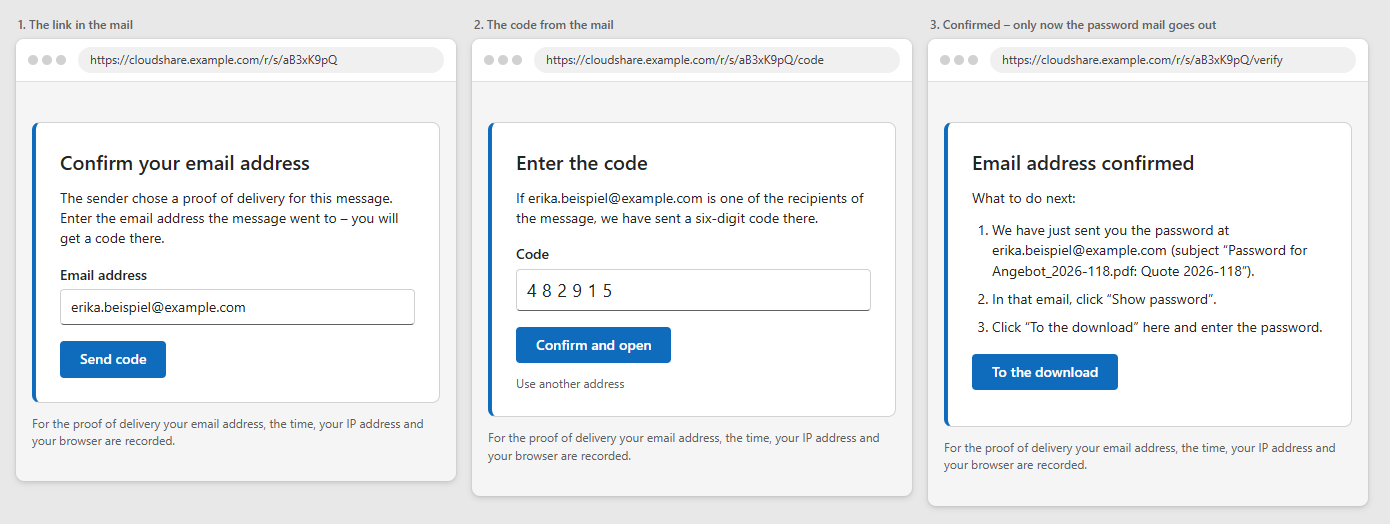
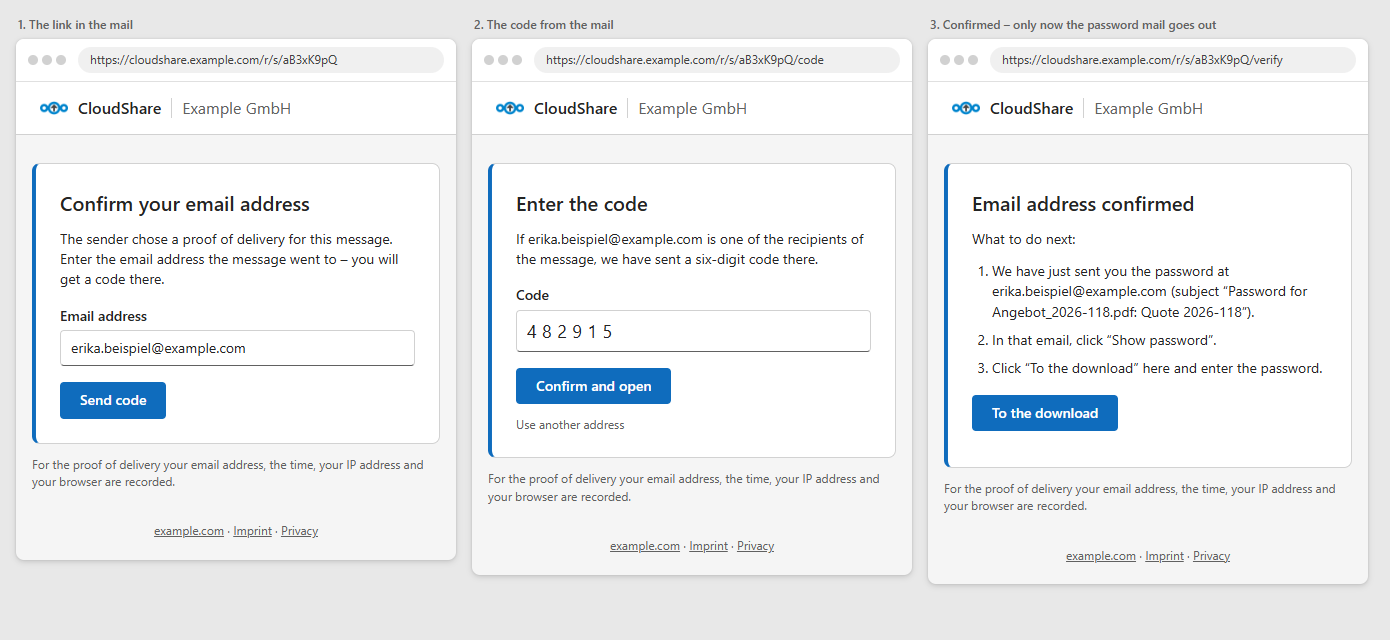
Recipient pages with header and footer; clearer mail after the confirmation (#101)
- Delivery proof pages: header with the CloudShare logo, "CloudShare" and the
  organisation (COMPANY_NAME), footer with website, imprint and privacy notice
  (COMPANY_WEBSITE_URL, IMPRINT_URL, PRIVACY_URL; http(s) only).
- Password mail after the confirmation: two numbered steps in the card
  (show password, then download), each button with its address as plain text.
- English texts in cloudshare.env.example and setup.sh; default certificate
  name "CloudShare Proof of Delivery".

diff --git a/docs/mockups/proof-gateway.html b/docs/mockups/proof-gateway.html
@@ -16,7 +16,9 @@ body { background: #e8e8e8; padding: 16px; font: 14px/1.45 "Segoe UI", -apple-sy
 .url { flex: 1; background: #f0f0f0; border-radius: 14px; padding: 4px 12px; font-size: 12px; color: #424242; }
 .step { font-size: 12px; font-weight: 600; color: #616161; padding: 0 0 6px 2px; }
 /* From proofGateway.ts */
-main{max-width:440px;margin:40px auto 32px;padding:0 16px}.card{background:#fff;border:1px solid #d1d1d1;border-left:4px solid #0f6cbd;border-radius:8px;padding:24px}
+.brand{display:flex;align-items:center;gap:10px;padding:12px 24px;background:#fff;border-bottom:1px solid #d1d1d1}.brand img{width:28px;height:28px}.brand-name{font-size:16px;font-weight:600}.brand-sep{width:1px;height:20px;background:#d1d1d1}.brand-company{font-size:16px;color:#616161}
+.links{text-align:center;font-size:12px;color:#616161;margin:0 16px 20px}.links a{color:inherit}
+main{max-width:440px;margin:28px auto 32px;padding:0 16px}.card{background:#fff;border:1px solid #d1d1d1;border-left:4px solid #0f6cbd;border-radius:8px;padding:24px}
 h1{font-size:20px;font-weight:600;margin:0 0 12px}p{margin:0 0 12px}.small{font-size:12px;color:#616161}
 label{display:block;font-weight:600;margin:16px 0 4px}input{width:100%;font:inherit;padding:7px 10px;border:1px solid #d1d1d1;border-bottom-color:#616161;border-radius:4px;background:#fff;color:#242424}
 button{margin-top:16px;font:inherit;font-weight:600;color:#fff;background:#0f6cbd;border:0;border-radius:4px;padding:8px 20px}.code{letter-spacing:.3em;font-size:18px}
@@ -29,29 +31,34 @@ a.button{display:inline-block;margin-top:4px;font-weight:600;color:#fff;backgrou
     <div class="step">1. The link in the mail</div>
     <div class="window">
       <div class="bar"><span class="dots"><span></span><span></span><span></span></span><span class="url">https://cloudshare.example.com/r/s/aB3xK9pQ</span></div>
+      <header class="brand"><img src="../../addin/assets/icon-64.png" alt="" width="28" height="28"><span class="brand-name">CloudShare</span><span class="brand-sep"></span><span class="brand-company">Example GmbH</span></header>
       <main><div class="card"><h1>Confirm your email address</h1>
         <p>The sender chose a proof of delivery for this message. Enter the email address the message went to – you will get a code there.</p>
         <label for="a">Email address</label><input id="a" value="erika.beispiel@example.com">
         <button>Send code</button></div>
         <p class="small" style="margin-top:12px">For the proof of delivery your email address, the time, your IP address and your browser are recorded.</p></main>
+      <footer class="links"><a href="#">example.com</a> · <a href="#">Imprint</a> · <a href="#">Privacy</a></footer>
     </div>
   </div>
   <div>
     <div class="step">2. The code from the mail</div>
     <div class="window">
       <div class="bar"><span class="dots"><span></span><span></span><span></span></span><span class="url">https://cloudshare.example.com/r/s/aB3xK9pQ/code</span></div>
+      <header class="brand"><img src="../../addin/assets/icon-64.png" alt="" width="28" height="28"><span class="brand-name">CloudShare</span><span class="brand-sep"></span><span class="brand-company">Example GmbH</span></header>
       <main><div class="card"><h1>Enter the code</h1>
         <p>If erika.beispiel@example.com is one of the recipients of the message, we have sent a six-digit code there.</p>
         <label for="c">Code</label><input id="c" class="code" value="482915">
         <button>Confirm and open</button>
         <p class="small" style="margin-top:12px;margin-bottom:0">Use another address</p></div>
         <p class="small" style="margin-top:12px">For the proof of delivery your email address, the time, your IP address and your browser are recorded.</p></main>
+      <footer class="links"><a href="#">example.com</a> · <a href="#">Imprint</a> · <a href="#">Privacy</a></footer>
     </div>
   </div>
   <div>
     <div class="step">3. Confirmed – only now the password mail goes out</div>
     <div class="window">
       <div class="bar"><span class="dots"><span></span><span></span><span></span></span><span class="url">https://cloudshare.example.com/r/s/aB3xK9pQ/verify</span></div>
+      <header class="brand"><img src="../../addin/assets/icon-64.png" alt="" width="28" height="28"><span class="brand-name">CloudShare</span><span class="brand-sep"></span><span class="brand-company">Example GmbH</span></header>
       <main><div class="card"><h1>Email address confirmed</h1>
         <p>What to do next:</p>
         <ol><li>We have just sent you the password at erika.beispiel@example.com (subject “Password for Angebot_2026-118.pdf: Quote 2026-118”).</li>
@@ -59,6 +66,7 @@ a.button{display:inline-block;margin-top:4px;font-weight:600;color:#fff;backgrou
         <li>Click “To the download” here and enter the password.</li></ol>
         <p><a class="button" href="#">To the download</a></p></div>
         <p class="small" style="margin-top:12px">For the proof of delivery your email address, the time, your IP address and your browser are recorded.</p></main>
+      <footer class="links"><a href="#">example.com</a> · <a href="#">Imprint</a> · <a href="#">Privacy</a></footer>
     </div>
   </div>
 </div>

diff --git a/server/src/proofGateway.ts b/server/src/proofGateway.ts
@@ -74,7 +74,7 @@ export interface GatewayResult {
 
 /** Content-Security-Policy of the pages: nothing but their own styles; the form may lead on to Nextcloud. */
 export const gatewayCsp = () =>
-  `default-src 'none'; style-src 'unsafe-inline'; img-src data:; form-action 'self' ${new URL(config.nextcloudUrl).origin}; ` +
+  `default-src 'none'; style-src 'unsafe-inline'; img-src 'self' data:; form-action 'self' ${new URL(config.nextcloudUrl).origin}; ` +
   "frame-ancestors 'none'; base-uri 'none'";
 
 const COOKIE = "cloudshare_proof";
@@ -113,13 +113,34 @@ const page = (title: string, body: string) => `<!doctype html>
 :root{color-scheme:light dark;--bg:#f5f5f5;--card:#fff;--fg:#242424;--fg2:#616161;--stroke:#d1d1d1;--brand:#0f6cbd;--brand-hover:#115ea3;--danger:#c50f1f}
 @media (prefers-color-scheme:dark){:root{--bg:#1f1f1f;--card:#292929;--fg:#fff;--fg2:#adadad;--stroke:#666;--brand:#479ef5;--brand-hover:#62abf5;--danger:#dc626d}}
 *{box-sizing:border-box}body{margin:0;background:var(--bg);color:var(--fg);font:14px/1.45 "Segoe UI",-apple-system,Helvetica,Arial,sans-serif}
-main{max-width:440px;margin:48px auto;padding:0 16px}.card{background:var(--card);border:1px solid var(--stroke);border-left:4px solid var(--brand);border-radius:8px;padding:24px}
+.brand{display:flex;align-items:center;gap:10px;padding:12px 24px;background:var(--card);border-bottom:1px solid var(--stroke)}.brand img{width:28px;height:28px}.brand-name{font-size:16px;font-weight:600}.brand-sep{width:1px;height:20px;background:var(--stroke)}.brand-company{font-size:16px;color:var(--fg2)}
+.links{text-align:center;font-size:12px;color:var(--fg2);margin:32px 16px 24px}.links a{color:inherit}
+main{max-width:440px;margin:40px auto;padding:0 16px}.card{background:var(--card);border:1px solid var(--stroke);border-left:4px solid var(--brand);border-radius:8px;padding:24px}
 h1{font-size:20px;font-weight:600;margin:0 0 12px}p{margin:0 0 12px}.small{font-size:12px;color:var(--fg2)}.error{color:var(--danger);font-weight:600}
 label{display:block;font-weight:600;margin:16px 0 4px}input{width:100%;font:inherit;padding:7px 10px;border:1px solid var(--stroke);border-bottom-color:var(--fg2);border-radius:4px;background:var(--card);color:var(--fg)}
 input:focus{outline:2px solid var(--brand);outline-offset:-1px}button{margin-top:16px;font:inherit;font-weight:600;color:#fff;background:var(--brand);border:0;border-radius:4px;padding:8px 20px;cursor:pointer}
 button:hover{background:var(--brand-hover)}a.button{display:inline-block;margin-top:4px;font-weight:600;color:#fff;background:var(--brand);border-radius:4px;padding:8px 20px;text-decoration:none}a.button:hover{background:var(--brand-hover)}ol{margin:0 0 12px;padding-left:20px}li{margin:0 0 8px}.code{letter-spacing:.3em;font-size:18px}
-</style></head><body><main><div class="card"><h1>${escapeHtml(title)}</h1>${body}</div>
-<p class="small" style="margin-top:12px">${escapeHtml(t("mail.proof.gateway.privacy"))}</p></main></body></html>`;
+</style></head><body>${brandHeader()}<main><div class="card"><h1>${escapeHtml(title)}</h1>${body}</div>
+<p class="small" style="margin-top:12px">${escapeHtml(t("mail.proof.gateway.privacy"))}</p></main>${linksFooter()}</body></html>`;
+
+/** Header of the pages: the CloudShare logo and name, after a thin line the organisation (COMPANY_NAME). */
+function brandHeader(): string {
+  const company = config.companyName
+    ? `<span class="brand-sep" aria-hidden="true"></span><span class="brand-company">${escapeHtml(config.companyName)}</span>`
+    : "";
+  return `<header class="brand"><img src="/assets/icon-64.png" alt="" width="28" height="28"><span class="brand-name">CloudShare</span>${company}</header>`;
+}
+
+/** Footer: the organisation's website, imprint and privacy notice (COMPANY_WEBSITE_URL, IMPRINT_URL, PRIVACY_URL; each optional). */
+function linksFooter(): string {
+  const link = (url: string, text: string) => `<a href="${escapeHtml(url)}" rel="noopener">${escapeHtml(text)}</a>`;
+  const links = [
+    config.companyWebsiteUrl ? link(config.companyWebsiteUrl, new URL(config.companyWebsiteUrl).host.replace(/^www\./, "")) : "",
+    config.imprintUrl ? link(config.imprintUrl, t("mail.proof.gateway.imprint")) : "",
+    config.privacyUrl ? link(config.privacyUrl, t("mail.proof.gateway.privacyLink")) : "",
+  ].filter(Boolean);
+  return links.length ? `<footer class="links">${links.join(" · ")}</footer>` : "";
+}
 
 const addressForm = (token: string, error = "") =>
   page(

diff --git a/server/src/mailLayout.ts b/server/src/mailLayout.ts
@@ -3,8 +3,8 @@
  * and the notes about a password SMS to the sender. Same look as the link card the taskpane inserts
  * (addin/src/taskpane/mailCard.ts – keep colours and spacing in sync):
  *
- *   text paragraphs · one white card (accent on the left, title, file rows with type badges, at most one button,
- *   a small detail line) · optional text below · grey line "sent automatically by CloudShare"
+ *   text paragraphs · one white card (accent on the left, title, file rows with type badges, at most one button or
+ *   numbered steps each with its button and plain link, a small detail line) · optional text below · grey line "sent automatically by CloudShare"
  *
  * The colour of the accent tells the kind: brand blue (password), green (downloaded), red (problem). Tables and inline
  * styles only, so it renders in classic Outlook, Outlook on the web, Gmail and on phones.
@@ -57,6 +57,11 @@ export interface MailCard {
   /** A short value shown large under the title (the six-digit code of the delivery proof). */
   highlight?: string;
   button?: { label: string; url: string };
+  /**
+   * Numbered steps instead of the one button (the password mail after the delivery proof's confirmation): each with
+   * its text, its button and, right below, the same address as plain text for clients that hide buttons.
+   */
+  steps?: { text: string; button: { label: string; url: string } }[];
   /** Small grey line at the bottom of the card (validity, accesses, number …). */
   details?: string;
 }
@@ -70,12 +75,22 @@ export function mailCard(card: MailCard): string {
         `line-height:20px;font-weight:600;color:#242424;word-break:break-all;">${escapeHtml(name)}</td></tr>`,
     )
     .join("");
-  const button = card.button
-    ? `<div style="margin:14px 0 0;">` +
-      `<a href="${escapeHtml(card.button.url)}" style="display:inline-block;background:${BRAND};border:1px solid ${BRAND};` +
-      `border-radius:4px;color:#ffffff;font-family:${FONT};font-size:13px;font-weight:600;line-height:18px;` +
-      `padding:6px 14px;text-decoration:none;white-space:nowrap;">${escapeHtml(card.button.label)}</a></div>`
-    : "";
+  const button = card.button ? `<div style="margin:14px 0 0;">${buttonLink(card.button)}</div>` : "";
+  const steps = (card.steps ?? [])
+    .map(
+      (step, i) =>
+        `<table role="presentation" cellpadding="0" cellspacing="0" border="0" style="border-collapse:collapse;margin:14px 0 0;width:100%;"><tr>` +
+        `<td width="24" valign="top" style="width:24px;padding:0 10px 0 0;">` +
+        `<div style="width:24px;height:24px;line-height:24px;border-radius:12px;background:${BRAND};color:#ffffff;` +
+        `font-family:${FONT};font-size:12px;font-weight:700;text-align:center;">${i + 1}</div></td>` +
+        `<td valign="top" style="font-family:${FONT};">` +
+        `<div style="font-size:14px;line-height:24px;font-weight:600;color:#242424;margin:0 0 6px;">${escapeHtml(step.text)}</div>` +
+        buttonLink(step.button) +
+        `<div style="font-size:12px;line-height:16px;margin:6px 0 0;word-break:break-all;">` +
+        `<a href="${escapeHtml(step.button.url)}" style="color:${BRAND};">${escapeHtml(step.button.url)}</a></div>` +
+        `</td></tr></table>`,
+    )
+    .join("");
   const details = card.details
     ? `<div style="font-size:12px;line-height:16px;color:#616161;margin:10px 0 0;">${escapeHtml(card.details)}</div>`
     : "";
@@ -92,8 +107,18 @@ export function mailCard(card: MailCard): string {
       : "") +
     (rows ? `<table role="presentation" cellpadding="0" cellspacing="0" border="0" style="border-collapse:collapse;">${rows}</table>` : "") +
     button +
+    steps +
     details +
     `</td></tr></table>`
+  );
+}
+
+/** A button as a link (the card's button and the buttons of its steps). */
+function buttonLink(button: { label: string; url: string }): string {
+  return (
+    `<a href="${escapeHtml(button.url)}" style="display:inline-block;background:${BRAND};border:1px solid ${BRAND};` +
+    `border-radius:4px;color:#ffffff;font-family:${FONT};font-size:13px;font-weight:600;line-height:18px;` +
+    `padding:6px 14px;text-decoration:none;white-space:nowrap;">${escapeHtml(button.label)}</a>`
   );
 }
 

diff --git a/server/src/passwordMail.ts b/server/src/passwordMail.ts
@@ -54,19 +54,34 @@ export function passwordMailHtml(mail: PasswordMailContent): string {
   const limits = mail.expiresOn && mail.maxAccessCount
     ? t("mail.limitNote", { count: mail.maxAccessCount, date: mail.expiresOn })
     : [accessText(mail.maxAccessCount), expiry].filter(Boolean).join(" · ");
-  const steps = mail.afterConfirmation
-    ? paragraph(t("mail.confirmedNext")) +
-      `<ol style="${TEXT_STYLE}padding-left:20px;">` +
-      [t("mail.confirmedStep1"), t(mail.afterConfirmation.kind === "request" ? "mail.confirmedStep2Upload" : "mail.confirmedStep2Download"), t("mail.confirmedStep3")]
-        .map((s) => `<li style="margin:0 0 4px;">${escapeHtml(s)}</li>`).join("") +
-      `</ol>` +
-      // To the gateway, not to Nextcloud: the same browser goes straight on (it is confirmed), another one or a forwarded
-      // mail is asked for the code again – link and password never travel together, every opening stays recorded.
-      `<p style="${TEXT_STYLE}"><a href="${escapeHtml(mail.afterConfirmation.url)}" style="display:inline-block;background:#0f6cbd;` +
-      `border:1px solid #0f6cbd;border-radius:4px;color:#ffffff;font-family:'Segoe UI',-apple-system,Helvetica,Arial,sans-serif;` +
-      `font-size:13px;font-weight:600;line-height:18px;padding:6px 14px;text-decoration:none;">` +
-      `${escapeHtml(t(mail.afterConfirmation.kind === "request" ? "mail.proof.gateway.upload" : "mail.proof.gateway.download"))}</a></p>`
-    : "";
+  const signature = mail.signature ? `<div style="margin:20px 0 0;">${mail.signature}</div>` : "";
+  const tracking = mail.trackingId ? t("mail.trackingId", { id: mail.trackingId }) : "";
+  if (mail.afterConfirmation) {
+    // Right after the confirmation: two numbered steps in the card – first the password, then the download. Each has
+    // its button and its address as plain text. The download goes to the gateway, not to Nextcloud: the confirmed
+    // browser goes straight on, another one or a forwarded mail is asked for the code again – every opening is recorded.
+    const upload = mail.afterConfirmation.kind === "request";
+    const passwordLimits = mail.expiresOn && mail.maxAccessCount
+      ? t("mail.confirmedLimit", { count: mail.maxAccessCount, date: mail.expiresOn })
+      : [accessText(mail.maxAccessCount), expiry].filter(Boolean).join(" · ");
+    return mailDocument({
+      opening,
+      card: {
+        accent: "brand",
+        title: t(upload ? "mail.confirmedTitleUpload" : "mail.confirmedTitleDownload"),
+        files: mail.fileNames,
+        steps: [
+          { text: t("mail.confirmedStepPassword"), button: { label: t("mail.showPassword"), url: mail.sendUrl } },
+          {
+            text: t(upload ? "mail.confirmedStepUpload" : "mail.confirmedStepDownload", { count }),
+            button: { label: t(upload ? "mail.proof.gateway.upload" : "mail.proof.gateway.download"), url: mail.afterConfirmation.url },
+          },
+        ],
+        details: [passwordLimits, tracking].filter(Boolean).join(" · "),
+      },
+      after: signature,
+    });
+  }
   return mailDocument({
     opening,
     card: {
@@ -74,16 +89,14 @@ export function passwordMailHtml(mail: PasswordMailContent): string {
       title: t("mail.cardTitle", { count }),
       files: mail.fileNames,
       button: { label: t("mail.showPassword"), url: mail.sendUrl },
-      details: [limits, mail.afterConfirmation ? "" : t("mail.enterPassword", { count }),
-        mail.trackingId ? t("mail.trackingId", { id: mail.trackingId }) : ""].filter(Boolean).join(" · "),
+      details: [limits, t("mail.enterPassword", { count }), tracking].filter(Boolean).join(" · "),
     },
     // The plain link as well – some mail clients block buttons or show them without colours.
     after:
-      steps +
       smallPrint(
         `${escapeHtml(t("mail.buttonFallback"))} <a href="${escapeHtml(mail.sendUrl)}" style="color:#0f6cbd;">` +
           `${escapeHtml(mail.sendUrl)}</a>`,
-      ) + (mail.signature ? `<div style="margin:20px 0 0;">${mail.signature}</div>` : ""),
+      ) + signature,
   });
 }
 

diff --git a/server/test/passwordMail.test.ts b/server/test/passwordMail.test.ts
@@ -105,17 +105,27 @@ describe("password mail – limits and the mail after the confirmation", () => {
       .toContain("Der Knopf funktioniert nur einmal und bis 25.11.2026");
   });
 
-  it("right after the confirmation: says so and lists the steps back on the page", () => {
+  it("right after the confirmation: two numbered steps in the card, each with its button and plain link", () => {
     const html = passwordMailHtml({
       ...base, fileNames: ["Angebot.zip"], subject: "Unterlagen", senderName: "Anna Muster", maxAccessCount: 3,
-      expiresOn: "25.11.2026", afterConfirmation: { kind: "file", url: "https://cloudshare.example.test/r/s/tok" },
+      expiresOn: "25.11.2026", trackingId: "20261118-1932-DHLB", sendUrl: "https://vault.example.test/#/send/abc/key",
+      afterConfirmation: { kind: "file", url: "https://cloudshare.example.test/r/s/tok" },
     });
     expect(html).toContain("Sie haben eben Ihre E-Mail-Adresse bestätigt. Hier ist das Kennwort für „Angebot.zip“ aus der Nachricht „Unterlagen“ von Anna Muster.");
-    expect(html).toContain("<ol");
-    expect(html).toContain("Klicken Sie auf „Zum Download“ – hier unten oder auf der geöffneten Seite.");
-    // The button leads to the gateway (confirmed browser: straight on; anyone else: the code again), never to Nextcloud.
-    expect(html).toContain('<a href="https://cloudshare.example.test/r/s/tok"');
+    expect(html).toContain("Kennwort und Download");
+    // Step 1 first, then step 2 – the password link never stands below the download.
+    const password = html.indexOf("Kennwort anzeigen und notieren");
+    const download = html.indexOf("Datei herunterladen – dort das Kennwort eingeben");
+    expect(password).toBeGreaterThan(0);
+    expect(download).toBeGreaterThan(password);
+    // Each step: its button and its address as plain text (the download to the gateway, never to Nextcloud).
+    expect(html.match(/https:\/\/vault\.example\.test\/#\/send\/abc\/key/g)).toHaveLength(3); // href of button, href and text of the link
+    expect(html.match(/https:\/\/cloudshare\.example\.test\/r\/s\/tok/g)).toHaveLength(3);
+    expect(html.indexOf("https://cloudshare.example.test/r/s/tok")).toBeGreaterThan(download);
     expect(html).toContain(">Zum Download</a>");
-    expect(html).not.toContain("wenn Sie den Link öffnen"); // the page says where to enter it
+    expect(html).toContain("Kennwort-Link: 3-mal, bis 25.11.2026 · Vorgang 20261118-1932-DHLB");
+    expect(html).not.toContain("Falls der Button nicht funktioniert");
+    expect(html).not.toContain("<ol");
   });
+
 });

diff --git a/server/src/config.ts b/server/src/config.ts
@@ -43,6 +43,14 @@ function cleanupDays(): number | null {
   return value;
 }
 
+/** An http(s) address from the environment (empty if unset); anything else stops the start, so a typo shows. */
+function webUrl(name: string): string {
+  const value = (process.env[name] ?? "").trim();
+  if (!value) return "";
+  if (!/^https?:\/\/[^\s]+$/i.test(value)) throw new Error(`Environment variable ${name} must be an http(s) address`);
+  return value;
+}
+
 /** A switch from the environment ("true" = on); unset, it takes the value of `fallbackName` (an older switch). */
 export function envFlag(name: string, fallbackName?: string, env: NodeJS.ProcessEnv = process.env): boolean {
   return (env[name] ?? (fallbackName ? env[fallbackName] : undefined)) === "true";
@@ -209,9 +217,17 @@ export const config = {
    * without them CloudShare makes a certificate itself (CN PROOF_SIGN_NAME, O PROOF_SIGN_ORGANIZATION). PROOF_TSA_URL:
    * RFC 3161 time stamp authority for the signature ("off" = none) – only a hash leaves the server.
    */
+  /**
+   * The recipients' pages of the delivery proof (proofGateway.ts): the organisation's name after the CloudShare logo,
+   * and its website, imprint and privacy notice in the footer – each optional, only http(s) addresses.
+   */
+  companyName: process.env.COMPANY_NAME?.trim() ?? "",
+  companyWebsiteUrl: webUrl("COMPANY_WEBSITE_URL"),
+  imprintUrl: webUrl("IMPRINT_URL"),
+  privacyUrl: webUrl("PRIVACY_URL"),
   proofSignCertFile: process.env.PROOF_SIGN_CERT_FILE ?? "",
   proofSignKeyFile: process.env.PROOF_SIGN_KEY_FILE ?? "",
-  proofSignName: process.env.PROOF_SIGN_NAME?.trim() || "CloudShare Zustellnachweis",
+  proofSignName: process.env.PROOF_SIGN_NAME?.trim() || "CloudShare Proof of Delivery",
   proofSignOrganization: process.env.PROOF_SIGN_ORGANIZATION?.trim() ?? "",
   proofTsaUrl: (() => {
     const url = (process.env.PROOF_TSA_URL ?? "http://timestamp.digicert.com").trim();

diff --git a/server/test/api.test.ts b/server/test/api.test.ts
@@ -1363,3 +1363,21 @@ describe("delivery proof – the list for the search (GET /api/proofs)", () => {
       .some((p: { id: string }) => p.id === proofId)).toBe(false);
   });
 });
+
+describe("delivery proof – the pages carry the organisation", () => {
+  it("shows the CloudShare logo with the organisation, and website, imprint and privacy links", async () => {
+    const { config } = await import("../src/config.js");
+    Object.assign(config, { companyName: "Example GmbH", companyWebsiteUrl: "https://www.example.com", imprintUrl: "https://www.example.com/imprint", privacyUrl: "" });
+    try {
+      const page = await app.inject({ method: "GET", url: "/r/s/unknown-token" });
+      expect(page.body).toContain('<img src="/assets/icon-64.png"');
+      expect(page.body).toContain('<span class="brand-company">Example GmbH</span>');
+      expect(page.body).toContain('<a href="https://www.example.com" rel="noopener">example.com</a>');
+      expect(page.body).toContain(">Impressum</a>");
+      expect(page.body).not.toContain("Datenschutz</a>"); // no PRIVACY_URL: no link
+      expect(page.headers["content-security-policy"]).toContain("img-src 'self' data:");
+    } finally {
+      Object.assign(config, { companyName: "", companyWebsiteUrl: "", imprintUrl: "", privacyUrl: "" });
+    }
+  });
+});

diff --git a/server/test/pdfSign.test.ts b/server/test/pdfSign.test.ts
@@ -33,9 +33,9 @@ function opensslVerify(cms: Buffer, content: Buffer): boolean | null {
 describe("signing the proof PDF", () => {
   it("makes a certificate Node reads and whose signature checks", () => {
     const { privateKey, publicKey } = generateKeyPairSync("rsa", { modulusLength: 2048 });
-    const der = makeCertificate("CloudShare Zustellnachweis", "Example GmbH", privateKey, publicKey.export({ type: "spki", format: "der" }));
+    const der = makeCertificate("CloudShare Proof of Delivery", "Example GmbH", privateKey, publicKey.export({ type: "spki", format: "der" }));
     const cert = new X509Certificate(der);
-    expect(cert.subject).toContain("CN=CloudShare Zustellnachweis");
+    expect(cert.subject).toContain("CN=CloudShare Proof of Delivery");
     expect(cert.subject).toContain("O=Example GmbH");
     expect(cert.verify(publicKey)).toBe(true);
     expect(new Date(cert.validTo).getTime()).toBeGreaterThan(Date.now() + 9 * 365 * 86_400_000);

diff --git a/CLAUDE.md b/CLAUDE.md
@@ -27,7 +27,7 @@ One container serves everything behind Caddy:
 - Personal settings ("Einstellungen" `#settings-open` in the account menu of the bottom bar, `#panel-settings` shown in place of the tab like the help – `showOverlay`): add-in `settings.ts` (form, `loadSettings`, `userSettings`), server `settings.ts` (store `settings`, `retention: false`, only changed fields; `settingsFor` = `config.userDefaults` from `DEFAULT_*` + stored + `availableSettings`), `/api/settings` GET/PUT/DELETE. Covers the offered password ways and the preselected one (`applyChannelChoices`, keeps the way a mail already uses), the notices (checked in `attachNoticeJob`, `runNotices`, `noteUndeliveredSms`; only where the server switch is on), the add-in language (`auto` or a code, also in `roamingSettings` `cloudshare-settings` → `preferredLanguage` in `i18n.ts`; reload once when it differs) and the signature of the password mails (`server/src/signature.ts`, `signatureHtml`: own text or else `MAIL_FOOTER`, plain text only – deliberately no formatted/HTML signature; empty line = paragraph (`signatureParagraphs`), profile placeholders via `fillTemplate`, escaped, each paragraph a `<p>` in `TEXT_STYLE` like "Guten Tag"; fixed in `PasswordJob.signature` when arming, built anew for "send again"). The link card carries no signature. SMS rules and server switches are never user settings. Keep the help section `help.settings.*` in step.
 - Per-draft state lives in `item.sessionData` (`DraftState` in `shared/office.ts`: `jobId`, `password`, `noPassword`, `maxAccess`, `passwordTo` = other password recipient (job field, only that address gets the password mail), `separate` = one password and password mail per "Als Link einfügen" step (`step` ID per click, `PasswordJob.separate`), `lastStep` = ID and password of the last step with a password – after it "Gleiches Kennwort wie zuvor" (`#mode-same`) is preselected and the next click reuses that step (`stepForClick`, joins the part on the server: one password, one password mail/SMS for files, message and upload link), `links` = share tokens of inserted links; if none of them is left in the body, `releaseDraftIfLinksGone` drops job/password/tag – taskpane on focus and every 4 s while locked, send handler before arming; drafts without `links` are never released). All files of one mail share one password, one Vaultwarden Send and one password mail (or, with "Ohne Kennwort" – file links only, `noPassword: true` on `/complete` – no password, no Send; with `DOWNLOAD_NOTICE` a job without password (`PasswordJob.noPassword`, `noticeShares`) only waits for the sent mail to register the download confirmation; `DraftState.noPassword` + `jobId`). With "per SMS" the pane hides "Kennwort abrufbar"/"Kennwort-Link gültig für" and SMS steps get Sends with `SEND_MAX_EXPIRE_DAYS`; the backend appends to an existing job via `jobId` on `/complete` unless it was already dispatched. The password mail is sent only after the mail was really sent: the taskpane tags the draft with the Office.js custom property `cloudshareJob` (MAPI `cecp-<add-in ID>`, `ADDIN_ID` env must match the manifest `<Id>`), the send handler only arms the job (`/api/jobs/:id/arm`, stores a Graph token with Mail.Read(.Shared) + Mail.Send(.Shared); the handler passes a "From" that differs from the user so shared-mailbox "Sent Items" are searched too and the password mail uses the same sender), and `server/src/jobs.ts` polls "Sent Items" and then mails the actual recipients. Password channel per insertion (each link request carries `passwordTo`/`passwordSms`, `deliveryFrom`; a step collects the ways of its links in `SeparatePart.deliveries` and sends each once – `partDeliveries`, `sentWays`; older steps fall back to the job's one way set by `PATCH`/`/arm`): recipients, `passwordTo` or `passwordSms` (seven.io, `sms.ts`, after sending, password read from the Send, webhook `/webhooks/seven`, status in `deliveries.ts`; `SMS_ALLOWED_COUNTRIES` limits the countries by calling code (`countries.ts` reads ISO codes, calling codes, German/English names and groups), `SMS_ALLOWED_NUMBERS`/`SMS_BLOCKED_NUMBERS` are regular expressions on the E.164 number (default blocks 0800/0900/0180; landlines allowed) – `smsNumberProblem` in `sms.ts` and `taskpane.ts`, the pane refuses such numbers while they are entered, the server on `PATCH`/resend and before every SMS; a failed SMS never falls back to another channel – the sender gets a note without password, `smsProblemMailHtml`; a refused SMS right away with the armed token, one reported later as not delivered only with `SMS_NOTICE` (app token; unset it follows `DOWNLOAD_NOTICE`, `envFlag` in `config.ts`)). Sends have two dates: recipients' access ("Kennwort-Link gültig für") and deletion = link expiry, so links with password last at most 30 days (Vaultwarden limit, `passwordLinkMaxDays`); `passwordRefs.ts` stores only the Send ID per sent step so the owner can see and resend the password ("Kennwort" in "Verlauf", `/api/shares/:id/password[/send]`) until the links expire – CloudShare never stores passwords itself; optional `templates.json` (`templates.ts`, user → department → default) and download confirmation (`notices.ts`, app permission `Mail.Send`, `DOWNLOAD_NOTICE`) and upload notification (same module, `UPLOAD_NOTICE`: upload links are `StepShare.request` with `knownFiles`, registered as `kind: "upload"`, each pass mails the new files of the folder until the link expires); every mail CloudShare sends itself (password mail, download confirmation, SMS notes) uses `mailLayout.ts` – text, one card with an accent per kind (blue password, green downloaded, red problem), the line `mail.automatic`; keep new mails in that layout. All persistent state (jobs, password entries, deliveries, notices, the cleanup list of uploaded files – `cleanup.ts`, `CLEANUP_AFTER_DAYS`, deletes upload folders after link expiry – and the Nextcloud connections) lives in one SQLite database `/data/cloudshare.db` (`db.ts`, Node 24 built-in `node:sqlite`): one table `entries (store, key, data)`, every row sealed AES-GCM with `CREDENTIAL_KEY` (`storage.ts`); each module keeps a `PersistentMap` in memory – `set`/`delete` write their row, an entry changed in place needs `map.save(key)`; a daily pass deletes rows not written for `DATA_RETENTION_DAYS` (default 365, `startRetention`), except maps created with `retention: false` (connections, cleanup list). No upload size cap except the user's Nextcloud quota (checked up front via OCS `cloud/user`, 507 → `NEXTCLOUD_QUOTA_EXCEEDED`).
 - Sensitivity labels (`docs/architecture.md` 2.13): `addin/src/taskpane/labels.ts` reads the Purview label (names and priority from `GET /api/labels` – Graph with the optional delegated `InformationProtectionPolicy.Read` –, else Outlook's catalog) from the shared file itself (OOXML `docMetadata/LabelInfo.xml` or `docProps/custom.xml`, compound files incl. encrypted Office files via the unencrypted `LabelInfo` stream, PDF XMP, `.pfile` = protected), shown under the file name in the list; after inserting, the mail gets the highest label of its files via `item.sensitivityLabel` (catalog order = rank, never lowered; `LABEL_POLICY` inherit/suggest/off), encrypted files get a note below the file list and need its box ticked (`LABEL_ENCRYPTED` warn/block/allow). Tests use example label IDs only.
-- "Zustellnachweis" (delivery proof, `DELIVERY_PROOF`, follows `DOWNLOAD_NOTICE` when unset; `docs/architecture.md` 2.12): a switch `#proof` under "Empfänger", never on by default, offered only with the server switch and only for "Dateien"; link requests carry `proof`, `proofId` (`DraftState.proofId`), `client` (`proofRequest`). `server/src/proof.ts` (store `proofs`, `retention: false`, kept `PROOF_RETENTION_MONTHS`, default 36): one case per mail with a tracking ID (`newTrackingId`, "20261117-1146-7Q2F"), events hash-chained (`addEvent`, `verifyCase`) – link created (SHA-256 computed while the chunks pass, `UploadState.hash`), mail sent with Internet Message-ID and To/Cc/Bcc (`recordMailSent` in the job watcher), password sent / SMS status (`deliveries.ts`), password link and messages opened (Send access count), every download (`publicDownloadTimes`), files received, link revoked/expired (`endLink`) – `proofWatcher.ts` every 10 minutes. File and upload links of a case go into the mail as the gateway `/r/s/<token>` (`proofGateway.ts`: the recipient enters an address the mail went to, gets a six-digit code from the sender's mailbox via the app token, confirms it – address, IP, browser recorded, signed cookie per link, 303 to Nextcloud; plain HTML forms, own CSP); messages have no gateway. PDF via `pdf.ts` (own minimal writer, no dependency) and `proofPdf.ts`, opened by "Nachweis" in "Verlauf" through a signed 5-minute address (`/api/proofs/:id/link`, `/proof/:id.pdf`, `sign`/`signedBy` in `storage.ts`). Card, password mail and download confirmation name the tracking ID. For steps whose links all go through the gateway the password is held back and sent only after a recipient confirmed the code (`proofPassword.ts`, `PasswordRef.deferred`), with a page of next steps. The sender gets the PDF by mail after the first download and when the case is done (`proofMail.ts`); five unknown addresses per link and hour lock its code requests for an hour and mail the sender (`sendLockNotice`); `GET /proof/:id.pdf` runs `refreshCase` first. "Zustellnachweise" in the account menu (`#proofs-open`, `#panel-proofs`, `GET /api/proofs`, `casesOf`) lists every case of the user – also finished ones – with a search over tracking ID, subject, recipients and file names. Every proof PDF is signed and time-stamped (`pdfSign.ts` with the DER helpers of `der.ts`, no dependency: CMS adbe.pkcs7.detached, RFC 3161 `PROOF_TSA_URL`; own PEM files or a self-made certificate).
+- "Zustellnachweis" (delivery proof, `DELIVERY_PROOF`, follows `DOWNLOAD_NOTICE` when unset; `docs/architecture.md` 2.12): a switch `#proof` under "Empfänger", never on by default, offered only with the server switch and only for "Dateien"; link requests carry `proof`, `proofId` (`DraftState.proofId`), `client` (`proofRequest`). `server/src/proof.ts` (store `proofs`, `retention: false`, kept `PROOF_RETENTION_MONTHS`, default 36): one case per mail with a tracking ID (`newTrackingId`, "20261117-1146-7Q2F"), events hash-chained (`addEvent`, `verifyCase`) – link created (SHA-256 computed while the chunks pass, `UploadState.hash`), mail sent with Internet Message-ID and To/Cc/Bcc (`recordMailSent` in the job watcher), password sent / SMS status (`deliveries.ts`), password link and messages opened (Send access count), every download (`publicDownloadTimes`), files received, link revoked/expired (`endLink`) – `proofWatcher.ts` every 10 minutes. File and upload links of a case go into the mail as the gateway `/r/s/<token>` (`proofGateway.ts`: the recipient enters an address the mail went to, gets a six-digit code from the sender's mailbox via the app token, confirms it – address, IP, browser recorded, signed cookie per link, 303 to Nextcloud; plain HTML forms, own CSP; header with the CloudShare logo and `COMPANY_NAME`, footer links `COMPANY_WEBSITE_URL`/`IMPRINT_URL`/`PRIVACY_URL`); messages have no gateway. PDF via `pdf.ts` (own minimal writer, no dependency) and `proofPdf.ts`, opened by "Nachweis" in "Verlauf" through a signed 5-minute address (`/api/proofs/:id/link`, `/proof/:id.pdf`, `sign`/`signedBy` in `storage.ts`). Card, password mail and download confirmation name the tracking ID. For steps whose links all go through the gateway the password is held back and sent only after a recipient confirmed the code (`proofPassword.ts`, `PasswordRef.deferred`), with a page of next steps. The sender gets the PDF by mail after the first download and when the case is done (`proofMail.ts`); five unknown addresses per link and hour lock its code requests for an hour and mail the sender (`sendLockNotice`); `GET /proof/:id.pdf` runs `refreshCase` first. "Zustellnachweise" in the account menu (`#proofs-open`, `#panel-proofs`, `GET /api/proofs`, `casesOf`) lists every case of the user – also finished ones – with a search over tracking ID, subject, recipients and file names. Every proof PDF is signed and time-stamped (`pdfSign.ts` with the DER helpers of `der.ts`, no dependency: CMS adbe.pkcs7.detached, RFC 3161 `PROOF_TSA_URL`; own PEM files or a self-made certificate).
 - Placeholders `%%PUBLIC_BASE_URL%%`, `%%PUBLIC_HOST%%`, `%%ENTRA_CLIENT_ID%%` in add-in files and manifest are replaced by `docker/entrypoint.sh` at container start (copied from `/app/public.tpl` to `/app/public`), so one image works for any environment. Then `server/src/index.ts` runs `localizePublic` (`i18n.ts`): the string marker `"%%CLOUDSHARE_I18N%%"` in the JS bundles becomes the `addin` texts of every language as JSON (`{ fallback, languages }`), `%%t:…%%`/`%%LANG%%`/`%%LOCALE%%` in HTML the texts of `LANGUAGE` plus a copy `taskpane.<language>.html` per language (the taskpane entry `main.ts` swaps in the client's page via `language.ts` before it imports `taskpane.ts`), in the manifest English `DefaultValue`s with one `Override` per other language (English as fallback for missing texts, own files/overrides from `/config/locales`, mounted from `env/config/` together with `templates.json`). Comments in these files must not contain `%%` (the smoke test fails on leftovers). UI tests and manifest validation localize via `addin/scripts/localize.mjs`; add-in unit tests load `locales/de.json` in `addin/test/setup.ts`. The backend also serves `/manifest.xml` for the M365 admin center.
 - Keep `docker/entrypoint.sh` LF-only (enforced by `.gitattributes`).
 

diff --git a/README.md b/README.md
@@ -47,7 +47,7 @@ recipient enters the address the mail went to, gets a six-digit code there, and 
 on to the download. See
 [Proof of delivery](#proof-of-delivery-optional).
 
-![The three steps for the recipient: enter the email address the message went to, then the six-digit code; then the confirmation with the next steps – the password mail goes out only now – and the way to the download](docs/images/proof-gateway.png)
+![The three steps for the recipient, each page with the CloudShare logo and the organisation at the top and links to website, imprint and privacy notice at the bottom: enter the email address the message went to, then the six-digit code; then the confirmation with the next steps – the password mail goes out only now – and the way to the download](docs/images/proof-gateway.png)
 
 ## What the sender gets
 
@@ -312,8 +312,10 @@ deployed again.
 | `SMS_NOTICE` | like `DOWNLOAD_NOTICE` | `true`: note to the sender when seven.io reports a password SMS as not delivered later (same application permission `Mail.Send`; unset it follows `DOWNLOAD_NOTICE`, which switched it before). A note about an SMS seven.io refuses right away needs no switch |
 | `DELIVERY_PROOF` | like `DOWNLOAD_NOTICE` | `true`: offers "Zustellnachweis" (proof of delivery) in the pane – per mail, never ticked by default; see [Proof of delivery](#proof-of-delivery-optional). The code mail to the recipients needs the application permission `Mail.Send` |
 | `PROOF_RETENTION_MONTHS` | `36` | Months a proof of delivery is kept after its last event (three years, the regular limitation period) – independent of `DATA_RETENTION_DAYS` |
+| `COMPANY_NAME` | empty | Your organisation's name, shown after the CloudShare logo at the top of the recipients' pages (delivery proof) |
+| `COMPANY_WEBSITE_URL` / `IMPRINT_URL` / `PRIVACY_URL` | empty | Links at the bottom of the recipients' pages: your website (shown by its host name), imprint and privacy notice; each optional, http(s) only |
 | `PROOF_SIGN_CERT_FILE` / `PROOF_SIGN_KEY_FILE` | empty | PEM files of a certificate and its key that sign the proof PDF (e.g. one of a CA trusted by Adobe, under `/config`). Empty: CloudShare makes its own certificate once (kept sealed in the database) – a change of the PDF still shows, but the reader names the signer "unknown" |
-| `PROOF_SIGN_NAME` / `PROOF_SIGN_ORGANIZATION` | `CloudShare Zustellnachweis` / empty | Name (CN) and organisation (O) of the certificate CloudShare makes itself |
+| `PROOF_SIGN_NAME` / `PROOF_SIGN_ORGANIZATION` | `CloudShare Proof of Delivery` / empty | Name (CN) and organisation (O) of the certificate CloudShare makes itself |
 | `PROOF_TSA_URL` | `http://timestamp.digicert.com` | RFC 3161 time stamp authority for the signature – proves the PDF existed unchanged at that time (only a hash is sent); `off` = none, a qualified one for legal weight |
 | `CLEANUP_AFTER_DAYS` | `0` | Uploaded files go to the Nextcloud trash this many days after their link expired or was revoked; `off` = never. Received files are never deleted |
 | `DATA_RETENTION_DAYS` | `365` | Entries in `/data/cloudshare.db` not changed for this many days are deleted (daily, then the file is shrunk); `off` = never. A safety net – entries normally leave on their own (jobs after 7 days, links' data when they expire, SMS states after 120 days). Nextcloud connections and the cleanup list are never affected. At least `SHARE_MAX_EXPIRE_DAYS` |
@@ -407,7 +409,8 @@ default, offered for "Files" only (not for a confidential message or an upload l
   (every recipient confirms for themselves), to another address or by SMS (once, after the first confirmation). The
   page then says what to do next ("We have just sent you the password … · click „Show password“ · click „To the
   download“ here") and leads on to the link; the link card says the password comes after the confirmation. The
-  password mail has a button "To the download" as well – it leads back to that page, never straight to Nextcloud: the
+  password mail shows two numbered steps in its card – 1 "Show password", 2 "To the download", each with its address
+  as plain text below the button; the download leads back to that page, never straight to Nextcloud: the
   confirmed browser goes right on, a forwarded mail or another device is asked for the code again.
 - **Recipients confirm their address**: the link in the mail leads to a CloudShare page first; the recipient enters
   the address the mail went to and gets a six-digit code from the sender's mailbox (the mail explains who sent

diff --git a/docs/architecture.md b/docs/architecture.md
@@ -454,10 +454,12 @@ offered with `DELIVERY_PROOF`, which follows `DOWNLOAD_NOTICE` when unset – it
   recipients; an address that is not one is recorded (`recipient.unknownAddress`). Ten minutes, five tries, three codes per
   address in 15 minutes, ten per link an hour. A right code records address, IP address (via Caddy, `trustProxy`) and
   browser, sets a signed cookie for this link until it expires and redirects (303) to Nextcloud – the Nextcloud
-  password is still needed. Before the mail was found sent the page says so. Plain HTML forms, no script, own CSP.
+  password is still needed. Before the mail was found sent the page says so. Plain HTML forms, no script, own CSP. A header with the CloudShare logo, "CloudShare" and the
+  organisation (`COMPANY_NAME`), a footer with `COMPANY_WEBSITE_URL`, `IMPRINT_URL`, `PRIVACY_URL` (`brandHeader`,
+  `linksFooter`; CSP `img-src 'self'` for the logo).
   A confidential message has no gateway (its link holds the key CloudShare does not keep); its openings are counted.
 - **Password after the confirmation** (`proofPassword.ts`): the mail to the confirmed address says so ("Sie haben eben Ihre
-  E-Mail-Adresse bestätigt …") and lists the steps, with a button "Zum Download" to the gateway – never to Nextcloud: the confirmed browser goes
+  E-Mail-Adresse bestätigt …") and its card has two numbered steps (`MailCard.steps`: 1 "Kennwort anzeigen", 2 "Zum Download", each button with its address as plain text below), the download to the gateway – never to Nextcloud: the confirmed browser goes
   straight on, another one or a forwarded mail is asked for the code again, so link and password never travel together
   (`afterConfirmation` in `passwordMailHtml`); a step whose links all go through the gateway
   (`isDeferredStep` in `jobs.ts`) sends no password when the mail is sent (`password.deferred`); its `PasswordRef` is
